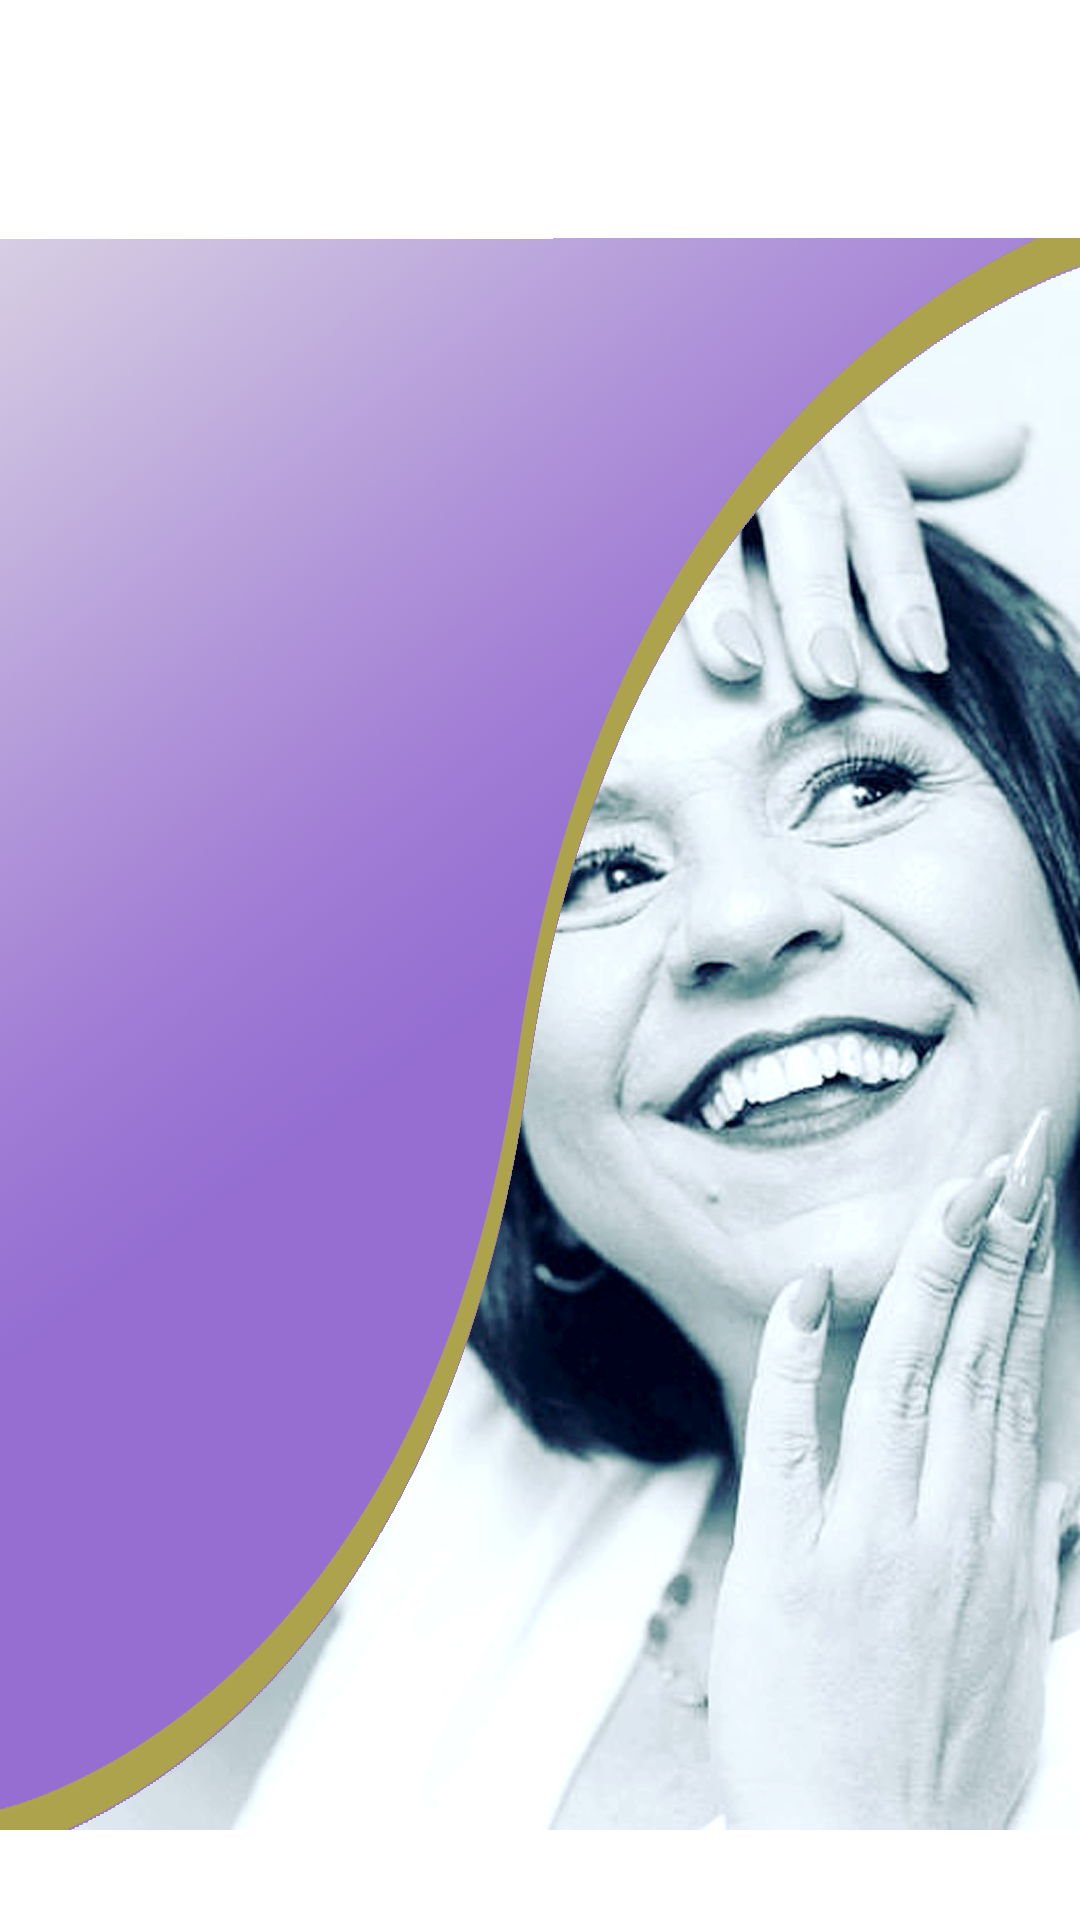
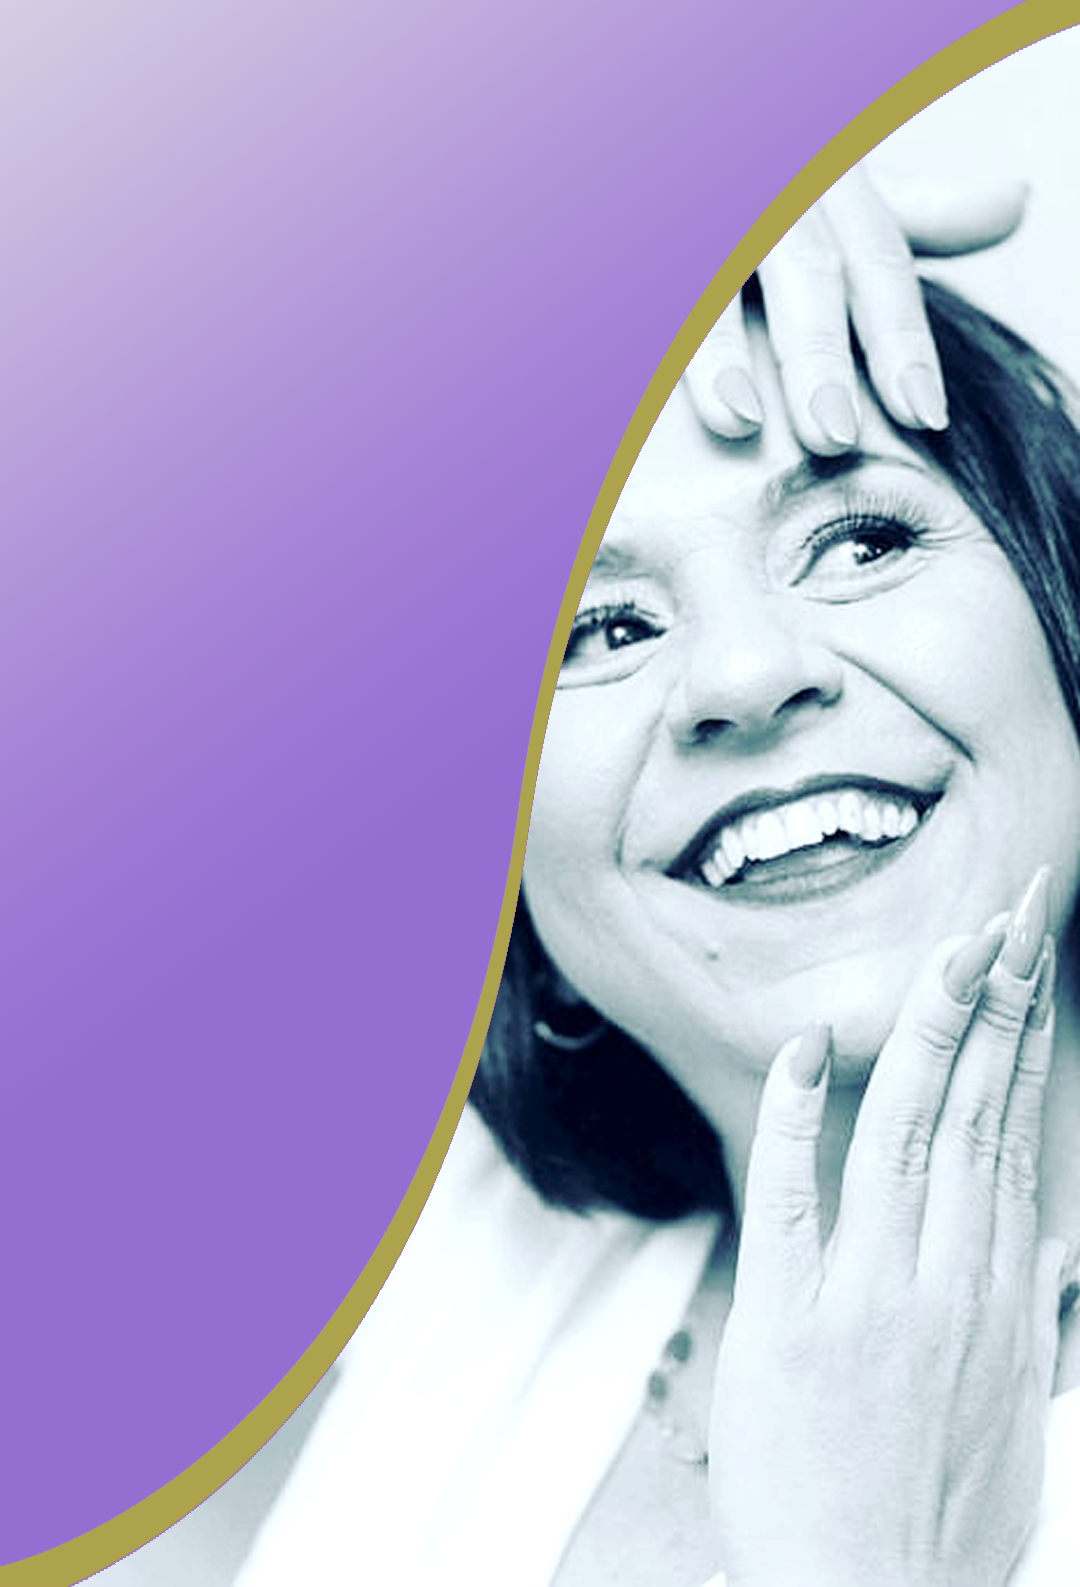
Responsividade e Bgs

diff --git a/estilo.css b/estilo.css
@@ -3,11 +3,14 @@
     margin: 0;
     padding: 0;
 }
+#conteudoPagina{
+    height: 750px;
+}
 
 .background{
-    width: auto;
-    height: 750px;
-    background-image: url(BG/corte_pc.png);
+    background-size: 100% 100%;
+    height: 100%;
+    background-image: url(BG/corte_pc.png)
 }
 
 .divBG{
@@ -42,7 +45,7 @@
     top: 50%;
     left: 50%;
     margin-top: -50px; /*aqui pode movimentar a altura*/
-    margin-left: -500px; /*movimento para direita ou esquerda*/
+    margin-left: -30%; /*movimento para direita ou esquerda*/
 }
 
 .botao-link {
@@ -113,6 +116,11 @@
 
 /*media screen ou telas com no max 1220px de largura*/
 @media screen and (max-width: 1220px){
+    .background{
+        background-size: cover;
+        height: 750px;
+        background-image: url(BG/BG_Cel.png)
+    }
     .iconeNav{
         display: block; /*Aqui eu defino o display como padrão, já que eu havia deixado como none para não aparecer*/
     }
@@ -148,20 +156,23 @@
         from {margin-left: -5vw;}
         top {margin-left: 50vw;}
     }
-
 }
 
 /*---------------------------------------------------- Página serviço ----------------------------------------------------*/
 
 /*Essa parte ficou um pouco mais complexa, por isso se ficar alguma dúvida me mande uma mensagem.*/
 
+
 .background-servico{
     background-repeat: no-repeat;
     background-position: center; /*Com essa tag o background terá mais responsividade ao alterar sua dimensão*/
     width: 100%;
     height: 738px !important; /*Essa tag prioriza esse elemento. Estava tendo problemas com o background e com essa tag consegui que ele aparecesse inteiro na tela.*/
+    background-size: cover;
     background-image: url(BG/BG_PC_servicos_corte.png);
 }
+
+
 
 .background-servico-Invertido{
     background-repeat: no-repeat;
@@ -176,8 +187,8 @@
 }
 
 .imgServico{ /*Essa class posiciona a imagem na div*/
-    padding-top: 180px;
-    height: 25vw; /*Tamanho da imagem. (vw também é uma medida de tamanho reconhecida pelo html e é ótima para se trabalhar com responsividade).*/
+    padding-top: 130px;
+    height: 30vw; /*Tamanho da imagem. (vw também é uma medida de tamanho reconhecida pelo html e é ótima para se trabalhar com responsividade).*/
 }
 
 .subtitulosServicos{  /*Essa class vai posiciona e modificar os subtítulos que são os nomes dos serviço*/
